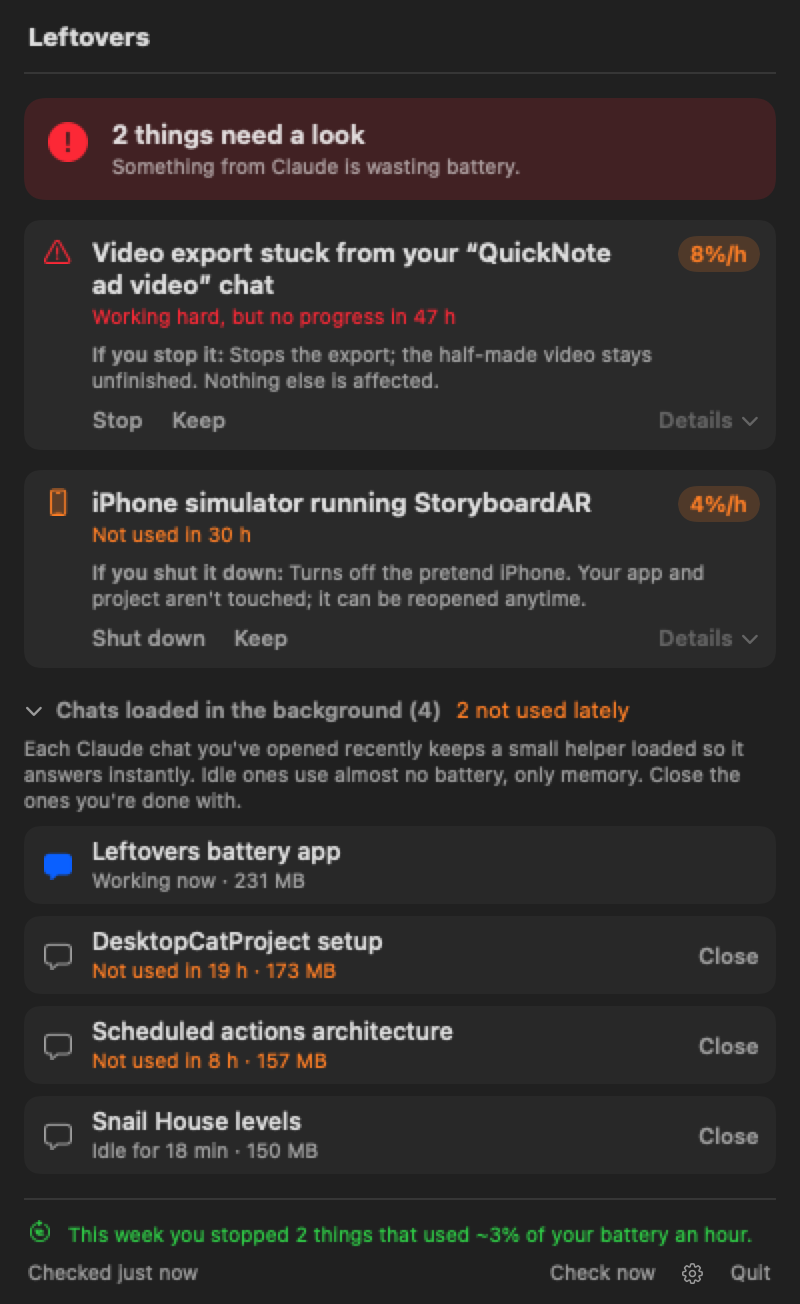
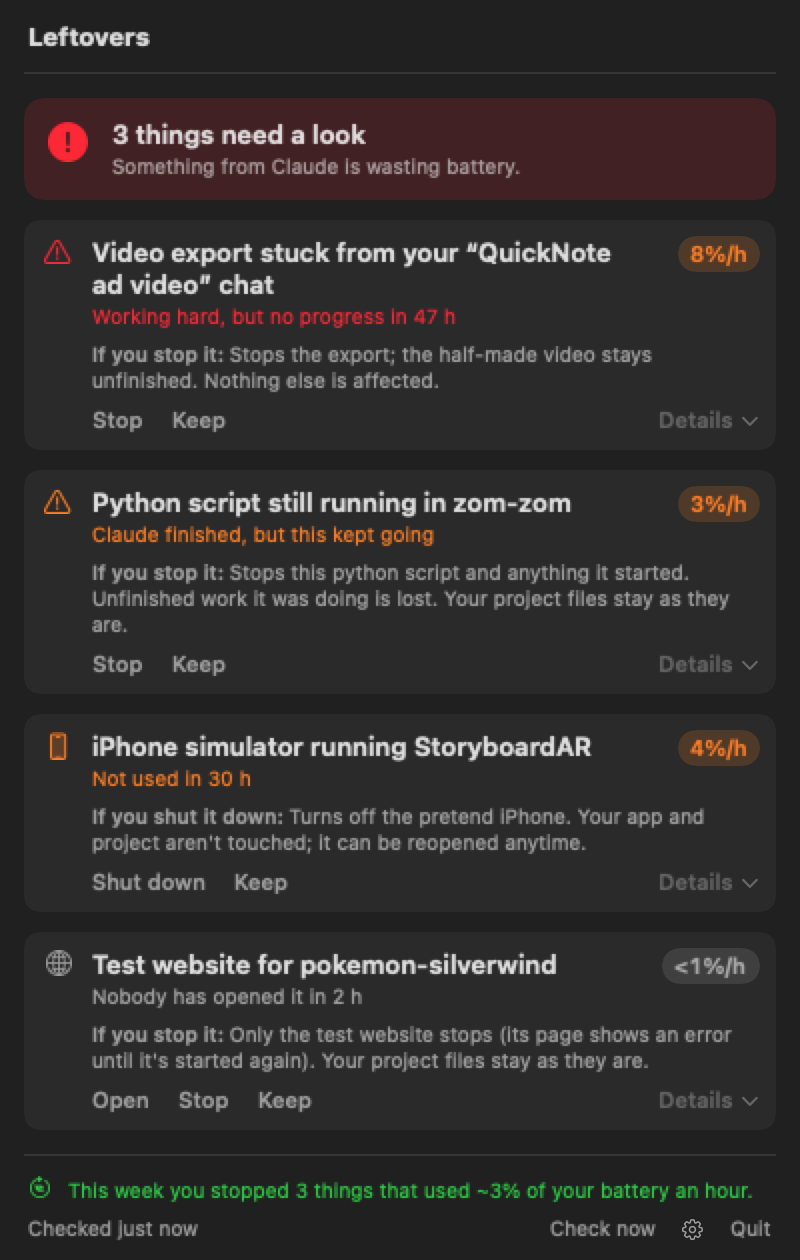
Drop the background-chats list; warn only when more than 7 chats are loaded
Claude keeps at most 6 chat helpers itself (its log: cap=6) and closes the oldest,
so old idle chats are never flagged. Stuck-chat warning stays.

diff --git a/Sources/Leftovers/MenuView.swift b/Sources/Leftovers/MenuView.swift
@@ -8,7 +8,6 @@ final class UIState: ObservableObject {
     @Published var showSettings = false
     var expandFirst = false   // README picture only
     var tallForPicture = false   // README picture only: no scrolling
-    @Published var showHelpers = false
 }
 
 struct MenuView: View {
@@ -52,8 +51,6 @@ struct MenuView: View {
             VStack(alignment: .leading, spacing: 10) {
                 StatusBanner(attention: shown.filter { $0.verdict.level >= .warn }, others: shown.count)
                 ForEach(sorted) { ItemRow(item: $0, expanded: ui.expandFirst && $0.id == sorted.first?.id) }
-                let helpers = m.items.filter { $0.kind == .chatHelper && $0.verdict.level < .warn }
-                if !helpers.isEmpty { HelpersSection(helpers: helpers) }
             }
             .padding(12)
         }
@@ -241,10 +238,13 @@ struct ItemRow: View {
             for (n, f) in item.apps.enumerated() { rows.append((n == 0 ? "Build folders" : " ", f)) }
         case .claudePreview:
             rows.append(("Claude windows", String(format: "%.0f%% CPU", item.cpuPercent)))
-        case .chatHelper, .helperPileup:
+        case .chatHelper:
             rows.append(("Chat", item.title))
             if let mb = item.memoryMB { rows.append(("Memory", String(format: "%.0f MB", mb))) }
             rows.append(("Running for", Describe.duration(now.timeIntervalSince(item.started))))
+        case .helperPileup:
+            if let mb = item.memoryMB { rows.append(("Memory", String(format: "%.1f GB in total", mb / 1024))) }
+            for (n, chat) in item.apps.enumerated() { rows.append((n == 0 ? "Chats loaded" : " ", chat)) }
         case .chromeExtension:
             rows.append(("Busy", String(format: "%.0f%% CPU", item.cpuPercent)))
             rows.append(("Running for", Describe.duration(now.timeIntervalSince(item.started))))
@@ -356,72 +356,3 @@ struct ItemRow: View {
     }
 }
 
-/// The chats whose helper programs are loaded, folded up by default. Normally a handful that Claude
-/// closes on its own; this is where you can close ones you're done with.
-struct HelpersSection: View {
-    let helpers: [Item]
-    @ObservedObject var ui = UIState.shared
-    @EnvironmentObject var m: Monitor
-
-    private var oldCount: Int { helpers.filter { $0.verdict.level == .info }.count }
-
-    var body: some View {
-        VStack(alignment: .leading, spacing: 6) {
-            Button {
-                ui.showHelpers.toggle()
-            } label: {
-                HStack(spacing: 6) {
-                    Image(systemName: ui.showHelpers ? "chevron.down" : "chevron.right")
-                        .font(.system(size: 9, weight: .semibold))
-                    Text("Chats loaded in the background (\(helpers.count))").font(.system(size: 11, weight: .semibold))
-                    if oldCount > 0 {
-                        Text("\(oldCount) not used lately").font(.system(size: 11)).foregroundStyle(.orange)
-                    }
-                    Spacer()
-                }
-                .contentShape(Rectangle())
-            }
-            .buttonStyle(.plain)
-            .foregroundStyle(.secondary)
-            if ui.showHelpers {
-                Text("Each Claude chat you've opened recently keeps a small helper loaded so it answers instantly. Idle ones use almost no battery, only memory. Close the ones you're done with.")
-                    .font(.caption).foregroundStyle(.secondary)
-                    .fixedSize(horizontal: false, vertical: true)
-                ForEach(helpers.sorted { ($0.busy ? 0 : 1, $0.idleSince ?? .distantPast) < ($1.busy ? 0 : 1, $1.idleSince ?? .distantPast) }) { h in
-                    HelperRow(item: h)
-                }
-            }
-        }
-        .padding(.top, 4)
-    }
-}
-
-struct HelperRow: View {
-    let item: Item
-    @EnvironmentObject var m: Monitor
-    @State private var closing = false
-
-    var body: some View {
-        HStack(spacing: 8) {
-            Image(systemName: item.busy ? "bubble.left.fill" : "bubble.left")
-                .foregroundStyle(item.busy ? Color.accentColor : .secondary)
-                .frame(width: 18)
-            VStack(alignment: .leading, spacing: 1) {
-                Text(item.title).font(.system(size: 12, weight: .medium)).lineLimit(1)
-                Text(Describe.reason(item) + (item.memoryMB.map { String(format: " · %.0f MB", $0) } ?? ""))
-                    .font(.caption)
-                    .foregroundStyle(item.verdict.level == .info ? Color.orange : Color.secondary)
-            }
-            Spacer()
-            if !item.busy {
-                Button(closing ? "Closing…" : "Close") { closing = true; m.stop(item) }
-                    .buttonStyle(.borderless)
-                    .font(.system(size: 11, weight: .medium))
-                    .disabled(closing)
-                    .help(Describe.advice(item)?.text ?? "")
-            }
-        }
-        .padding(.vertical, 5).padding(.horizontal, 8)
-        .background(RoundedRectangle(cornerRadius: 8).fill(Color.primary.opacity(0.04)))
-    }
-}

diff --git a/Sources/Leftovers/Classify.swift b/Sources/Leftovers/Classify.swift
@@ -187,7 +187,7 @@ enum Describe {
         case .chatHelper:
             return i.verdict.tag == "Stuck" ? "Claude chat stuck: “\(i.title)”" : "“\(i.title)”"
         case .helperPileup:
-            return "The Claude app has \(i.title) open"
+            return "Too many Claude chats loaded (\(i.apps.count))"
         case .chromeExtension:
             return "A Chrome extension keeps working in the background"
         case .appStarted, .sessionJob:
@@ -210,7 +210,7 @@ enum Describe {
             if tag == "Stuck" { return "Busy although the chat is idle" }
             if tag == "Kept" { return "You chose to keep this" }
             let idle = duration(now.timeIntervalSince(i.idleSince ?? i.started))
-            return i.verdict.level == .info ? "Not used in \(idle)" : "Idle for \(idle)"
+            return "Idle for \(idle)"
         }
         switch true {
         case tag == "Kept": return "You chose to keep this running"
@@ -226,7 +226,7 @@ enum Describe {
             return i.apps.prefix(2).map { ($0 as NSString).lastPathComponent == $0 ? $0 : (($0 as NSString).deletingLastPathComponent as NSString).lastPathComponent + "/" + ($0 as NSString).lastPathComponent }.joined(separator: ", ") + (i.apps.count > 2 ? " and \(i.apps.count - 2) more" : "")
         case tag == "Working": return "Working now"
         case tag == "Stuck": return "Busy although the chat is idle"
-        case tag == "Pile-up": return String(format: "Far more than the chats you use · about %.1f GB of memory", (i.memoryMB ?? 0) / 1024)
+        case tag == "Pile-up": return String(format: "Claude normally keeps at most 6 · about %.1f GB of memory", (i.memoryMB ?? 0) / 1024)
         case tag == "Spinning": return "Busy for \(duration(now.timeIntervalSince(i.started))) with nothing to do"
         case tag == "Tab busy": return "Chrome is busy and you haven't used it in a while"
         case tag == "Open tab": return i.apps.contains("server stopped") ? "Its test website has stopped, so the tab can go" : "Open, but you haven't used Chrome in a while"

diff --git a/Tests/LeftoversTests/RulesTests.swift b/Tests/LeftoversTests/RulesTests.swift
@@ -223,9 +223,10 @@ private func heavyTrack(for ago: TimeInterval, connectedAgo: TimeInterval? = nil
         #expect(Rules.judge(helper(cpu: 100, busy: false, idleFor: 2 * min), track: heavyTrack(for: 30 * min), ctx: ctx()).level < .warn)
     }
 
-    @Test func oldQuietHelpersAreMarked() {
-        #expect(Rules.judge(helper(cpu: 0, busy: false, idleFor: 12 * hour), track: Track(firstSeen: now), ctx: ctx()).tag == "Not used in 12 h")
-        #expect(Rules.judge(helper(cpu: 0, busy: false, idleFor: 20 * min), track: Track(firstSeen: now), ctx: ctx()).level == .none)
+    @Test func oldQuietHelpersAreLeftToClaude() {
+        // Claude closes old chats itself (keeps at most 6), so a quiet one is never flagged, however old.
+        #expect(Rules.judge(helper(cpu: 0, busy: false, idleFor: 30 * hour), track: Track(firstSeen: now), ctx: ctx()).level == .none)
+        #expect(Rules.helperPileup == 8)   // warn only beyond 7
     }
 
     @Test func pileupAndExtensions() {
@@ -254,8 +255,8 @@ private func heavyTrack(for ago: TimeInterval, connectedAgo: TimeInterval? = nil
 @Suite struct HelperWording {
     @Test func helperReasons() {
         var h = item(.chatHelper); h.idleSince = now.addingTimeInterval(-19 * hour)
-        h.verdict = Verdict(level: .info, tag: "Not used in 19 h")
-        #expect(Describe.reason(h, now: now) == "Not used in 19 h")
+        h.verdict = Verdict(level: .none, tag: "Idle 19 h")
+        #expect(Describe.reason(h, now: now) == "Idle for 19 h")
         h.idleSince = now.addingTimeInterval(-18 * min); h.verdict = Verdict(level: .none, tag: "Idle 18 min")
         #expect(Describe.reason(h, now: now) == "Idle for 18 min")
         h.busy = true

diff --git a/Sources/Leftovers/Rules.swift b/Sources/Leftovers/Rules.swift
@@ -35,6 +35,9 @@ struct RuleContext {
 
 /// Decides how worried to be about each row. Pure, so every rule is tested.
 enum Rules {
+    /// The Claude app keeps at most 6 chats loaded (its log says "cap=6"), so more than 7 means that limit broke.
+    static let helperPileup = 8
+
     static func isHeavy(_ i: Item) -> Bool { i.cpuPercent >= 15 || (i.batteryPerHour ?? 0) >= 2 }
 
     /// When this row became heavy, carried over from the last scan. A process that has averaged
@@ -145,12 +148,12 @@ enum Rules {
                 return Verdict(level: .warn, tag: "Stuck",
                                message: "The helper for your “\(i.title)” chat has been busy for \(Describe.duration(heavyFor)) although the chat is idle.\(cost)")
             }
-            if idle >= 6 * hour { return Verdict(level: .info, tag: "Not used in \(Describe.duration(idle))") }
+            // Old idle chats are fine: Claude keeps up to 6 loaded and closes the oldest itself.
             return Verdict(level: .none, tag: "Idle \(Describe.duration(idle))")
 
         case .helperPileup:
             return Verdict(level: .warn, tag: "Pile-up",
-                           message: "The Claude app has \(i.title) open, holding about \(Int((i.memoryMB ?? 0) / 1024 * 10) / 10) GB of memory. Quitting and reopening Claude clears them.")
+                           message: "The Claude app has \(i.title) loaded, though it normally keeps at most 6 and closes the oldest. They hold about \(String(format: "%.1f", (i.memoryMB ?? 0) / 1024)) GB of memory. Quitting and reopening Claude clears them.")
 
         case .chromeExtension:
             if isHeavy(i), heavyFor >= 10 * min * scale {

diff --git a/Sources/Leftovers/DemoRender.swift b/Sources/Leftovers/DemoRender.swift
@@ -30,20 +30,7 @@ enum DemoRender {
         var site = item(.appStarted, "Dev server (Vite) on port 5173", "", hours: 3, perHour: 0.2,
                         verdict: Verdict(level: .info, tag: "Idle 2 h"), project: "pokemon-silverwind", ports: [5173])
         site.noun = "Test website"
-        func helper(_ name: String, idleHours: Double?, mb: Double, tag: String, level: Level) -> Item {
-            var h = item(.chatHelper, name, "", hours: 20, perHour: 0, verdict: Verdict(level: level, tag: tag))
-            h.busy = idleHours == nil; h.memoryMB = mb
-            h.idleSince = idleHours.map { now.addingTimeInterval(-$0 * 3600) }
-            return h
-        }
-        let demo = settings ? [stuck, loop, sim, site] : [
-            stuck, sim,
-            helper("Leftovers battery app", idleHours: nil, mb: 231, tag: "Working", level: .none),
-            helper("DesktopCatProject setup", idleHours: 19, mb: 173, tag: "Not used in 19 h", level: .info),
-            helper("Scheduled actions architecture", idleHours: 8, mb: 157, tag: "Not used in 8 h", level: .info),
-            helper("Snail House levels", idleHours: 0.3, mb: 150, tag: "Idle 18 min", level: .none),
-        ]
-        UIState.shared.showHelpers = !settings
+        let demo = [stuck, loop, sim, site]
         UIState.shared.expandFirst = false
         UIState.shared.tallForPicture = true
         Monitor.shared.showDemo(demo)

diff --git a/Sources/Leftovers/Monitor.swift b/Sources/Leftovers/Monitor.swift
@@ -278,13 +278,13 @@ final class Monitor: NSObject, ObservableObject {
                                     busy: info?.busy ?? false))
         }
         items += helperItems
-        // Far more helpers than anyone has chats open: the Claude app is failing to close old ones.
-        if helperItems.count >= 15 {
+        // More than the app's own limit allows: it is failing to close old ones.
+        if helperItems.count >= Rules.helperPileup {
             let mem = helperItems.compactMap(\.memoryMB).reduce(0, +)
             items.append(Item(id: "helper-pileup", kind: .helperPileup, title: "\(helperItems.count) chat helpers",
                               detail: "", command: "", pids: helperItems.flatMap(\.pids), started: now,
                               cpuPercent: helperItems.map(\.cpuPercent).reduce(0, +), keepKey: "helper-pileup",
-                              noun: "Chat helpers", memoryMB: mem))
+                              noun: "Chat helpers", apps: helperItems.map(\.title), memoryMB: mem))
         }
         // Chats active in the last 10 minutes count as working too (covers helpers that write no status).
         if sessions.sessions.values.contains(where: { now.timeIntervalSince($0.lastActivityAt) < 600 }) {

diff --git a/README.md b/README.md
@@ -26,10 +26,9 @@ At the top there's always a clear answer: a green **All clear**, or **"2 things 
 | **Spotlight** | Spotlight busy indexing Claude's freshly made build folders (node_modules, .build…). | Open Spotlight settings |
 | **Cloud sync** | iCloud/OneDrive/Dropbox busy uploading Claude's build folders. | Show folder |
 | **Claude chat stuck** | A chat's helper program says it's idle but keeps the CPU busy (a known Claude Code bug). | Close |
-| **Helper pile-up** | 15+ chat helpers loaded at once (a known Claude app bug that can reach 150). | Quit Claude |
+| **Too many chats loaded** | More than 7 chat helpers at once. Claude normally keeps at most 6 and closes the oldest itself, so this means that broke (a known bug that can reach 150). | Quit Claude |
 | **Chrome extension spinning** | A Chrome extension busy in the background for 10+ minutes (Claude in Chrome has had this bug). | Open Chrome extensions |
 
-At the bottom, **Chats loaded in the background** (folded up) lists each Claude chat whose helper is loaded, whether it's working, how long it's been idle, and its memory. Ones not used for 6+ hours are marked, and you can close any idle one; the chat itself isn't deleted.
 
 Every row says what its button does ("If you stop it: only the test website stops…"), so you know nothing important breaks. Leftovers watches Claude's scratch folders and **every folder a Claude chat has worked in** automatically. You can add more in Settings.
 
